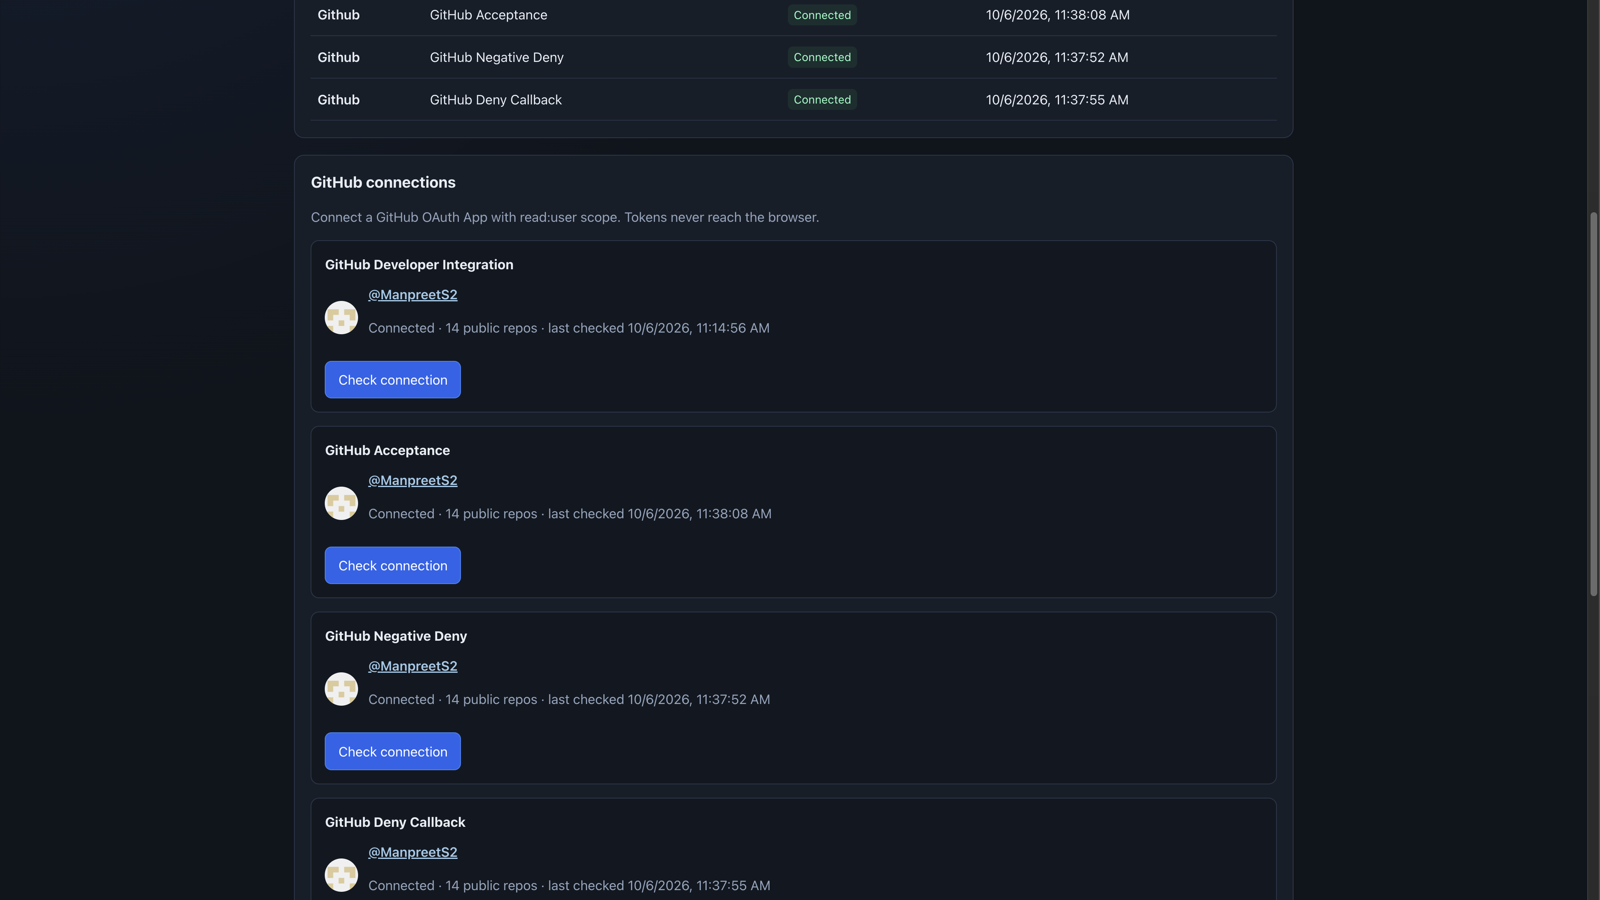
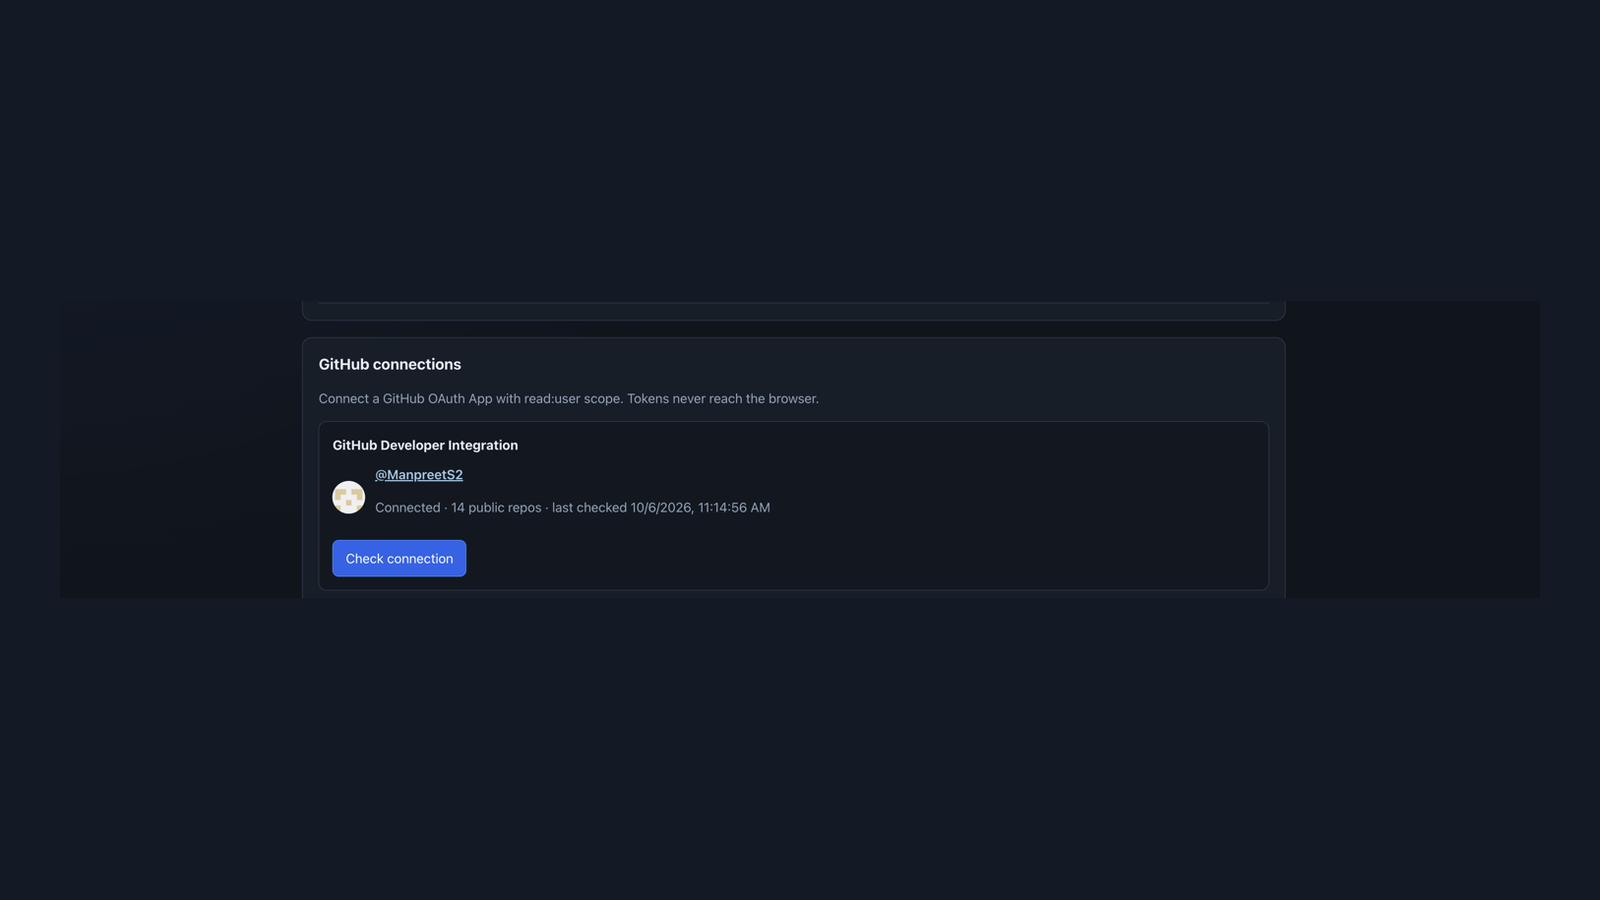
docs: tighten LinkedIn screenshot framing and provenance
Replace the overview with the stronger acceptance capture, reframe GitHub and support-case shots, and use a clean Stripe list view to avoid the detail-grid collision.

diff --git a/docs/assets/portfolio/linkedin/README.md b/docs/assets/portfolio/linkedin/README.md
@@ -2,7 +2,7 @@
 
 Five LinkedIn-ready frames for IntegrationLab. Prefer this order in a post carousel.
 
-**Framing:** 16:9 (captures at 1600×900 CSS viewport / 3840×2160 device pixels unless noted).  
+**Framing:** 16:9 (1600×900 or higher-resolution equivalent).  
 **Environment:** local Compose full stack on `http://localhost:8080` (not AWS).  
 **Safety:** no operator keys, OAuth secrets, Stripe `whsec_`, cookies, or private paths.
 
@@ -10,10 +10,10 @@ Five LinkedIn-ready frames for IntegrationLab. Prefer this order in a post carou
 
 | # | File | Subject | Capture source | Live / simulated |
 |---|------|---------|----------------|------------------|
-| 1 | `01-overview.png` | Reliability overview — DB healthy, Stripe degraded with failed queue + duplicate absorption | Live Compose console, 2026-10-10 | **Live UI** over local stack. Stripe counters reflect locally HMAC-signed test events (not Stripe CLI / Dashboard push). GitHub shown **not connected** after a fresh volume. |
-| 2 | `02-github-connected.png` | Connected GitHub OAuth (`@ManpreetS2`, safe profile metadata) | Reused from `docs/assets/portfolio/02-github-connected.png` (Oct 2026 external-acceptance run) | **Live GitHub OAuth** evidence from that prior run. Fresh OAuth could not be completed in this session (browser hit GitHub sign-in). |
-| 3 | `03-support-case.png` | `CASE-00001` detail — pinned Failure Lab evidence, investigating status, timeline | Live Compose console, 2026-10-10 | **SIMULATED** Failure Lab evidence (`rate_limited_429`, `unauthorized_401`) with visible `[SIMULATED]` labels. Case workflow itself is live on the local stack. |
-| 4 | `04-stripe-webhook.png` | Verified `payment_intent.succeeded` — processed, signature verified, duplicate delivery absorbed, effect applied | Live Compose console, 2026-10-10 | **Locally signed demo events** (`evt_linkedin_*` / `pi_linkedin_*`) posted to the local webhook endpoint with the configured signing secret. Not a fresh Stripe CLI or Dashboard delivery. |
+| 1 | `01-overview.png` | Reliability overview — healthy GitHub + degraded Stripe with failed queue / duplicate absorption | Reused from `docs/assets/portfolio/01-overview.png` (Oct 2026 external-acceptance session) | **Live UI** from the previously verified acceptance Compose run (stronger multi-integration health framing than the fresh-volume LinkedIn staging overview). |
+| 2 | `02-github-connected.png` | Primary GitHub OAuth connection (`GitHub Developer Integration`, `@ManpreetS2`, connected status) | Reframed crop of authentic `docs/assets/portfolio/02-github-connected.png` (Oct 2026 acceptance) — primary card only | **Live GitHub OAuth** evidence from that prior run. Acceptance/deny helper integrations cropped out of frame; pixels are not invented. Fresh OAuth was not re-run for this PR. |
+| 3 | `03-support-case.png` | `CASE-00001` detail — impact, pinned Failure Lab evidence, investigating status | Live Compose console, 2026-10-10 (reframed under brand chrome) | **SIMULATED** Failure Lab evidence with visible `[SIMULATED]` labels and explicit “not a live customer outage” impact text. Case workflow is live on the local stack. |
+| 4 | `04-stripe-webhook.png` | Stripe webhook list — summary counters, duplicate deliveries absorbed, processed `payment_intent.succeeded` (delivery count 2) | Live Compose console, 2026-10-10 (list view; detail panel not opened) | **Locally signed demo events** (`pi_linkedin_*`) posted to the local webhook endpoint. Not a fresh Stripe CLI / Dashboard delivery. List framing avoids the known Object/Amount detail-grid collision. |
 | 5 | `05-failed-queue.png` | Failed queue — `webhook_invalid_event_data`, Retry/Dismiss recovery controls | Live Compose console, 2026-10-10 | Same locally signed demo corpus as #4. Classification and operator controls are real; event payload is synthetic for the LinkedIn staging set. |
 
 ## Claims these images may support
@@ -23,13 +23,14 @@ Aligned with `docs/verification.md` / `docs/external-acceptance.md`:
 - Reliability overview derives from stored evidence (no fake uptime/SLA).
 - Stripe receive → verify → process path, including duplicate absorption and failed-queue classification.
 - Support cases pin Failure Lab evidence without treating simulations as live customer outages.
-- GitHub OAuth connected state is evidenced by the prior acceptance capture (#2), not by this session’s fresh DB.
+- GitHub OAuth connected state is evidenced by the prior acceptance capture (#2), not by inventing a new OAuth session for this PR.
 
-Do **not** claim AWS deployment, production customer metrics, or a new Stripe CLI / live GitHub OAuth run from the 2026-10-10 LinkedIn staging session alone.
+Do **not** claim AWS deployment, production customer metrics, a new Stripe CLI run, or a new live GitHub OAuth reconnect from the documentation-only LinkedIn QA pass.
 
-## Visual QA (2026-10-10)
+## Visual QA
 
 - Typography readable at LinkedIn carousel size; no credential overlays.
-- Support-case and Failure Lab `[SIMULATED]` labels retained and visible.
-- Stripe detail may show a known minor Object/Amount grid overlap (pre-existing UI); content remains legible.
+- Support-case `[SIMULATED]` labels retained and visible; impact text states operator exercise / not a live outage.
+- Stripe #4 uses the webhook **list** (processed filter) so the Object/Amount detail-grid collision is not shown.
+- GitHub #2 focuses on the primary Developer Integration card without repeated acceptance/deny rows.
 - Secret string scan of PNGs: no `whsec_`, `Bearer `, or operator/OAuth secret markers.
